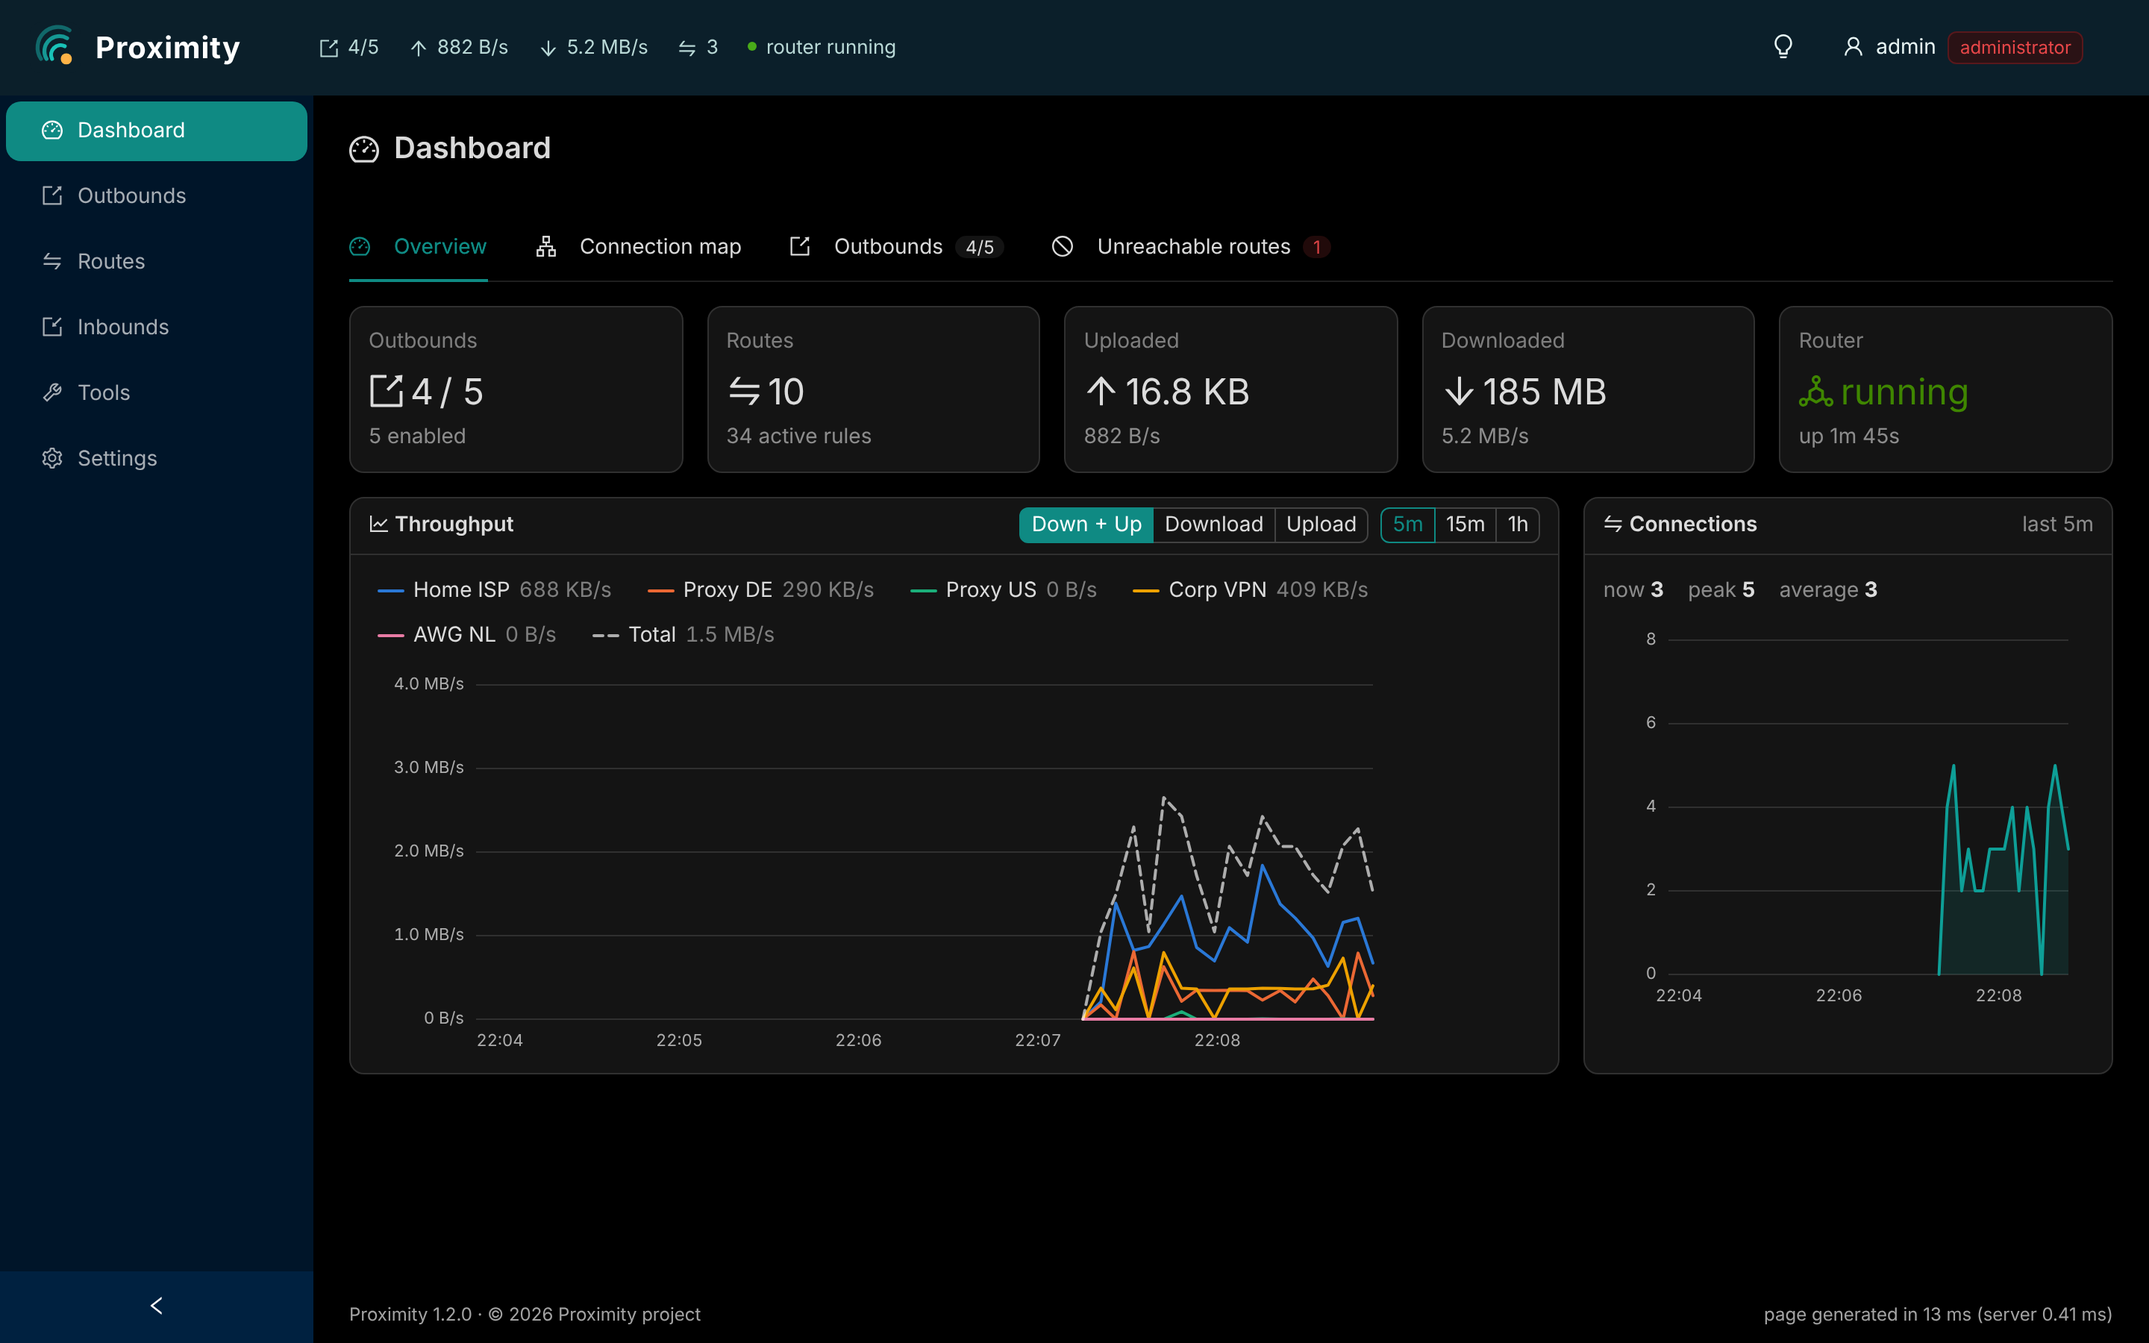
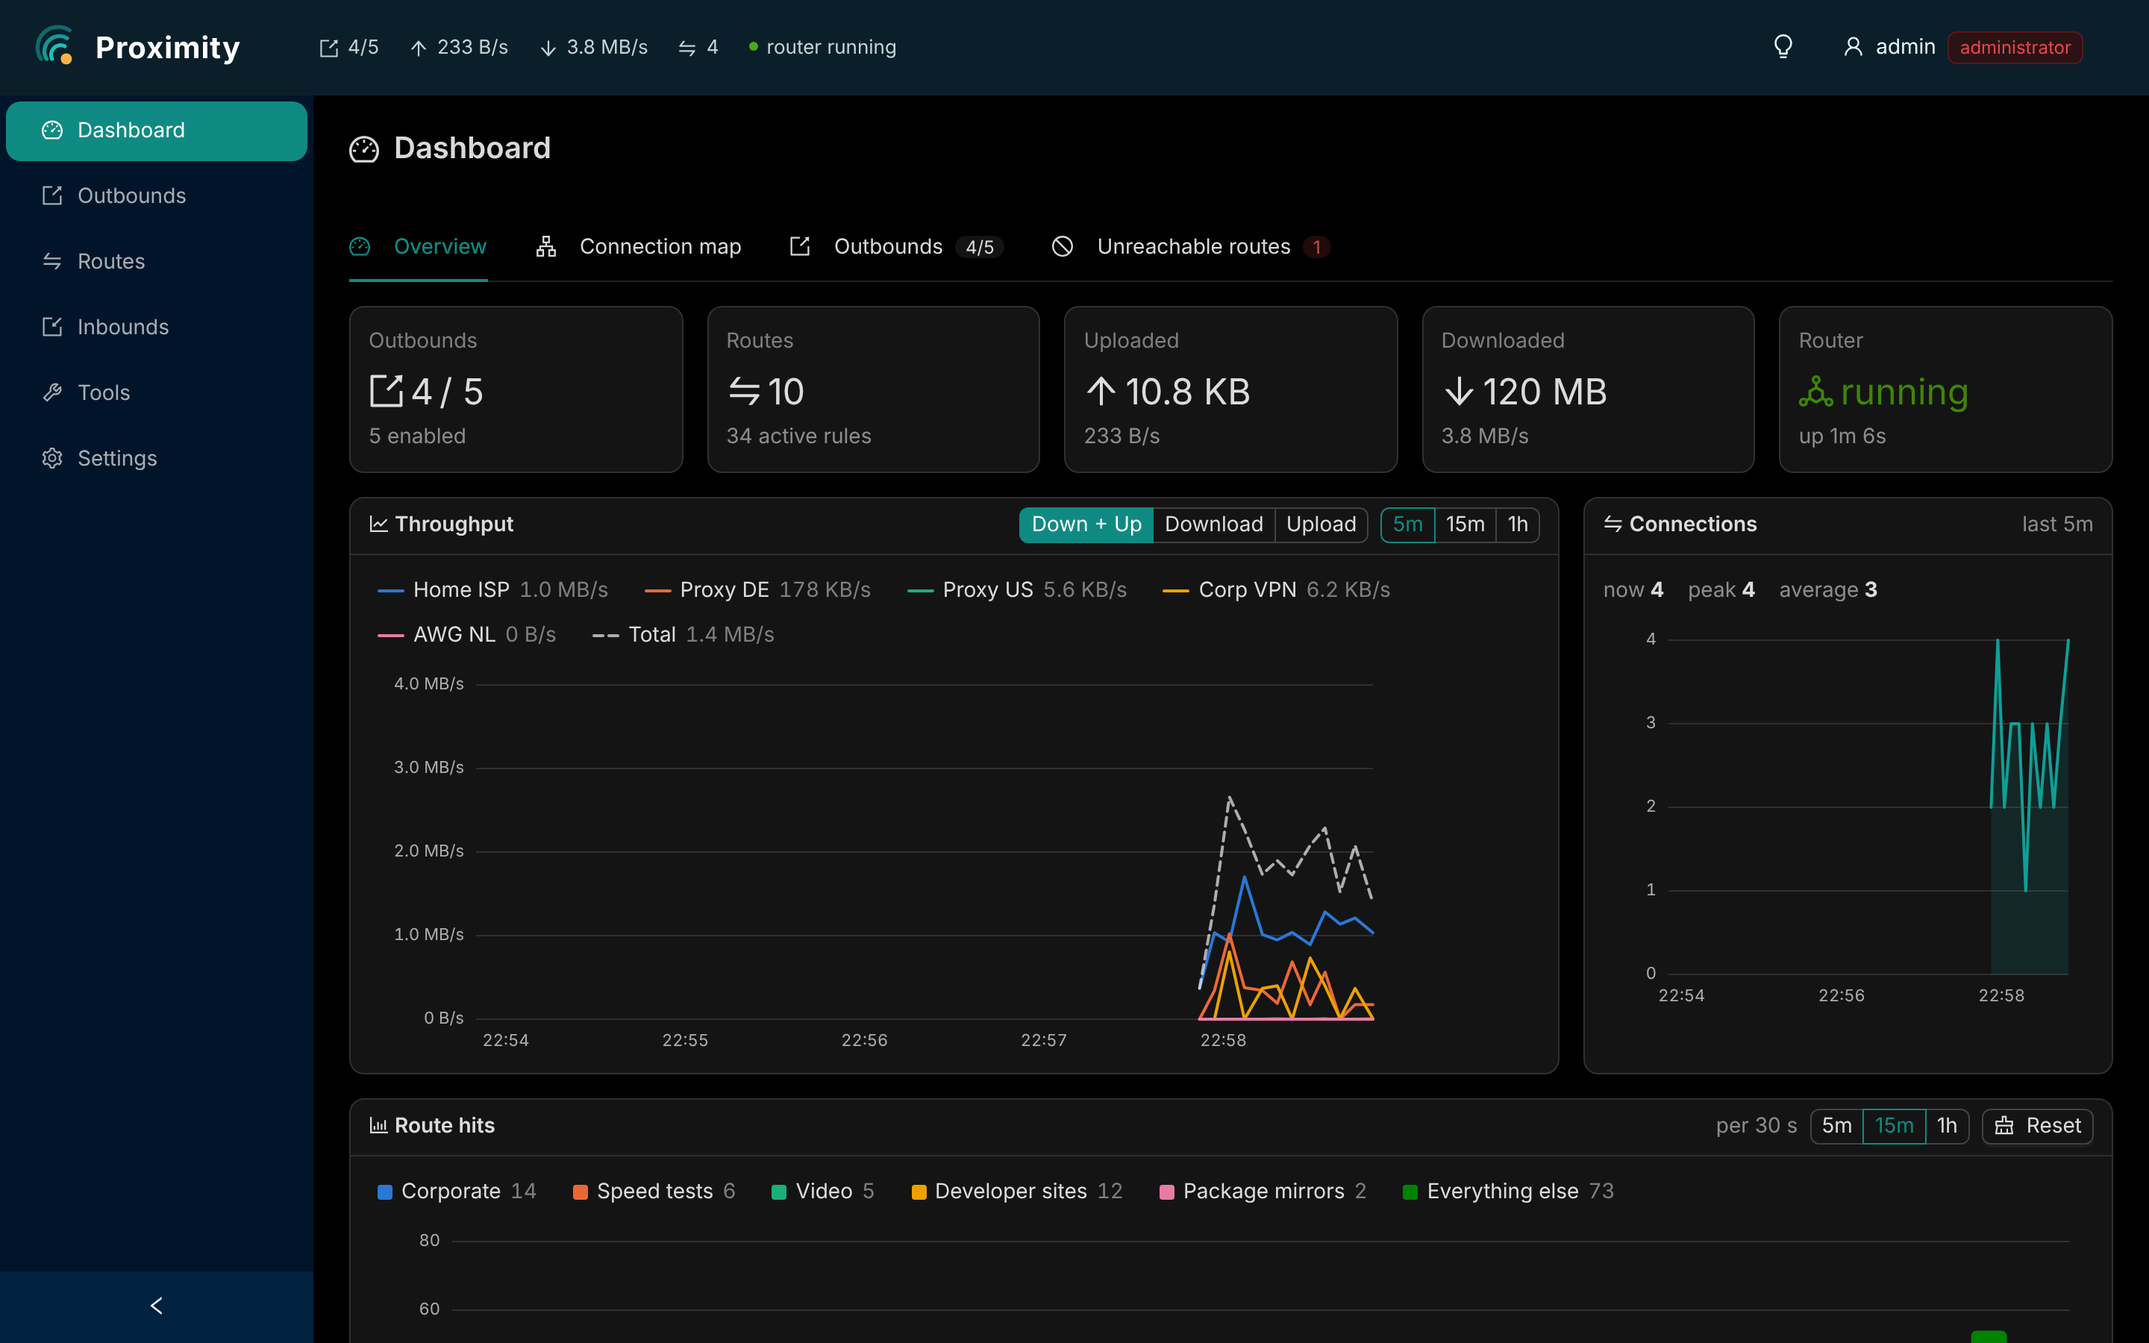
Show route hits on the dashboard overview
The Route hits chart of the Routes page also stands below the
throughput and connections charts for signed-in users, with route
names loaded from /api/routes. After Reset the chart hides the
samples the page loaded before. Stand hits checks the dashboard
(14 checks); dashboard pictures retaken.

diff --git a/web/src/views/Dashboard.vue b/web/src/views/Dashboard.vue
@@ -45,6 +45,8 @@
               <TrafficChart v-model:range="range" class="chart-main" :overview="overview" :samples="history.samples.value" :step="history.step.value" />
               <ConnectionsChart class="chart-side" :samples="history.samples.value" :step="history.step.value" :range="range" />
             </div>
+            <HitsChart v-if="session.level > 0" class="dashboard-hits" :samples="history.samples.value" :step="history.step.value"
+              :origins="origins" :can-clear="canEdit()" @clear="clearHits" />
           </div>
         </a-tab-pane>
         <a-tab-pane v-if="session.level > 0" key="map">
@@ -122,7 +124,7 @@
 </template>
 
 <script setup>
-import { computed, ref, watch } from 'vue'
+import { computed, onMounted, ref, watch } from 'vue'
 import { message } from 'ant-design-vue'
 import {
   ApartmentOutlined, ArrowDownOutlined, ArrowUpOutlined, ClearOutlined, DashboardOutlined, DeploymentUnitOutlined, ExportOutlined,
@@ -135,6 +137,7 @@ import StateTag from '../components/StateTag.vue'
 import TrafficChart from '../components/TrafficChart.vue'
 import ConnectionsChart from '../components/ConnectionsChart.vue'
 import ConnectionMap from '../components/ConnectionMap.vue'
+import HitsChart from '../components/HitsChart.vue'
 import { useHistory } from '../components/history'
 
 const props = defineProps({ overview: { type: Object, default: null } })
@@ -146,6 +149,9 @@ const tab = computed({
   set: (value) => { stored.value = value }
 })
 const history = useHistory(() => props.overview)
+const routes = ref([])
+const origins = computed(() => routes.value.map((route, index) => ({ key: route.key, name: route.id || `Route ${index + 1}` }))
+  .concat([{ key: 'default', name: 'Everything else' }]))
 
 const outboundColumns = [
   { title: 'Outbound', key: 'id' },
@@ -169,6 +175,28 @@ const refusedColumns = [
 
 watch(stored, (value) => localStorage.setItem('proximity-dashboard-tab', value))
 
+// NOTE: The chart needs the names of the routes; the overview has only their number.
+async function loadRoutes() {
+  if (session.level < 1) return
+  try {
+    routes.value = (await api.get('/api/routes', true)).routes
+  } catch (error) {
+    routes.value = []
+  }
+}
+
+async function clearHits() {
+  try {
+    await api.remove('/api/routes/hits')
+    emit('refresh')
+  } catch (error) {
+    message.error(error.message)
+  }
+}
+
+onMounted(loadRoutes)
+watch(() => props.overview && props.overview.counts.routes, loadRoutes)
+
 async function clearRefused() {
   try {
     await api.remove('/api/refused')
@@ -184,6 +212,7 @@ async function clearRefused() {
 .tab-count { margin-left: 4px; padding: 0 7px; border-radius: 10px; font-size: 12px; background: rgba(127, 127, 127, .15); }
 .tab-alert { background: color-mix(in srgb, var(--tone-bad) 15%, transparent); color: var(--tone-bad); }
 .charts { display: flex; gap: 16px; align-items: stretch; }
+.dashboard-hits { margin-bottom: 0; }
 .chart-main { flex: 1 1 0; min-width: 0; }
 .chart-side { flex: 0 0 30%; min-width: 0; }
 @media (max-width: 991px) {

diff --git a/web/src/components/HitsChart.vue b/web/src/components/HitsChart.vue
@@ -7,7 +7,7 @@
         <a-radio-group v-model:value="range" size="small">
           <a-radio-button v-for="option in ranges" :key="option.value" :value="option.value">{{ option.label }}</a-radio-button>
         </a-radio-group>
-        <a-popconfirm v-if="canClear" title="Reset all hit counters?" @confirm="$emit('clear')">
+        <a-popconfirm v-if="canClear" title="Reset all hit counters?" @confirm="reset">
           <a-button size="small"><template #icon><ClearOutlined /></template>Reset</a-button>
         </a-popconfirm>
       </div>
@@ -62,7 +62,7 @@ const props = defineProps({
   origins: { type: Array, required: true },
   canClear: { type: Boolean, default: false }
 })
-defineEmits(['clear'])
+const emit = defineEmits(['clear'])
 const { token } = theme.useToken()
 
 const palette = ['#2a78d6', '#eb6834', '#1baf7a', '#eda100', '#e87ba4', '#008300', '#6250d6', '#e34948']
@@ -72,6 +72,7 @@ const height = 220
 const columns = 30
 
 const range = ref(900)
+const cleared = ref(0)
 const hidden = ref(new Set())
 const focused = ref('')
 const hover = ref(null)
@@ -95,7 +96,8 @@ const end = computed(() => {
   return Math.ceil(time / bucket.value) * bucket.value
 })
 const start = computed(() => end.value - range.value)
-const shown = computed(() => props.samples.filter((sample) => sample.time > start.value && sample.time <= end.value))
+const shown = computed(() => props.samples.filter((sample) => sample.time > Math.max(start.value, cleared.value) &&
+  sample.time <= end.value))
 
 const totals = computed(() => {
   const result = {}
@@ -174,6 +176,13 @@ const tooltipStyle = computed(() => {
   return left > width.value / 2 ? { right: `${width.value - left + 16}px`, top: `${margin.top}px` }
     : { left: `${left + 16}px`, top: `${margin.top}px` }
 })
+
+// NOTE: The page keeps the samples it has loaded: after a reset the older ones are hidden here.
+function reset() {
+  const last = props.samples[props.samples.length - 1]
+  cleared.value = last ? last.time : Math.floor(Date.now() / 1000)
+  emit('clear')
+}
 
 function label(key) {
   return key.startsWith('inbound:') ? `Inbound ${key.slice('inbound:'.length)}` : key

diff --git a/docs/development.md b/docs/development.md
@@ -285,7 +285,7 @@ make stand-config                       # stand "broken-config": 17 checks, abou
 make stand-capture                      # stand "capture": 29 checks, about 45 seconds
 make stand-dns                          # stand "dns": 36 checks, about 1.5 minutes
 make stand-logs                         # stand "logs": 21 checks, about 40 seconds
-make stand-hits                         # stand "hits": 13 checks, about 30 seconds
+make stand-hits                         # stand "hits": 14 checks, about 30 seconds
 make stand-tools                        # stand "tools": 23 checks, about 40 seconds
 bash scripts/stands/pair/stand.sh up    # only start the stand; "down" removes it
 ```
@@ -298,7 +298,7 @@ bash scripts/stands/pair/stand.sh up    # only start the stand; "down" removes i
 | `capture` | a "host" (a network namespace with `rp_filter=1` and its default route via `proximity-stand-wan`), Proximity in its network with capture on (`PROXIMITY_NETWORK=host`), an exit instance with SOCKS5 and OpenVPN inbounds, an AmneziaWG server (`proximity-stand-awg`), a local time server and the "Internet" `proximity-stand-wan` that owns `1.1.1.1` (route `IP-CIDR` to SOCKS5), `1.1.1.2` (no route), `1.1.1.3` (route to OpenVPN) and `1.1.1.4` (route from the `AllowedIPs` of AmneziaWG) and counts the packets by source | `make stand-capture` (`check.sh`): TCP of each address leaves where its route says; ping of the SOCKS5 route does not leave and gets no false answer, ping without a route gets real answers, ping of the tunnel route goes through the tunnel; the AmneziaWG outbound connects with its obfuscation, *Receive routes* adds the networks of `AllowedIPs` first and switches the route off when the outbound stops, TCP and ping of that route go through the tunnel; the default target SOCKS5 drops ping, the default tunnel carries it and LAN ping stays on the LAN; *Keep ping of the host on its routes* off removes everything |
 | `dns` | the "host" of `capture` with `nameserver 1.1.1.1`, Proximity in its network with capture on, an exit instance with two SOCKS5 inbounds (with and without UDP) and an OpenVPN inbound, the "Internet" `proximity-stand-wan` with `1.1.1.1` (the resolver of the system), `1.1.1.53` (the DNS server given to the outbounds, also DoT and DoH with a certificate made by `openssl` and trusted through `SSL_CERT_FILE`), `1.1.1.2` and `1.1.1.80` (an HTTP proxy, `proxy.py`), and `proximity-stand-dns`: a DNS server on both addresses (`server.py`) that prints every query with the address and transport | `make stand-dns` (`check.sh`): outbounds whose servers are given by name (`exit.stand.test`, `vpn.stand.test`) connect, the `remote` is replaced by the real address, the server name of a proxy is never asked through the proxy (the pin in `nameserver-policy`), the time servers are resolved by the router, an application gets a placeholder address; the domain of a route is asked from the server of its outbound through the outbound (UDP, TCP for a proxy without UDP, the far side of a tunnel, the exit *Host*), the default servers of Settings and the DNS of the default target; a DNS server of the tunnel given by name is resolved through the tunnel into `hosts` and answers over TLS, DoT through SOCKS5, DoH through the HTTP proxy, keyword and regex routes, the health check of a fallback, a name through the tunnel to a Proximity inbound gets a real address and the inbound hijacks only `198.18.0.2:53`; the answers pass `rp_filter=1`; no warnings |
 | `logs` | one instance with a HOST outbound and a SOCKS5 inbound, and a headless browser (the tools of the screenshots) | `make stand-logs` (`check.sh`): Start and Restart empty the log with the setting on (default), keep it with the setting off; a Start of a running service changes nothing; the restart of the container keeps the logs; the button **Clear** of the log window of an outbound and of an inbound (with its confirmation) empties the window and the log on the server, and the log stays empty after a restart of the container; Settings show the saved value of the checkbox |
-| `hits` | one instance with its proxy port `7899` published, and a headless browser (the tools of the screenshots) | `make stand-hits` (`check.sh`): requests through the HTTP proxy of the router to `one.test` (route *One*), `*.two.test` (route *Two*) and another name; the counts per route and for *Everything else*, the time of the last hit, the history samples, a reload of the router configuration neither loses nor repeats hits, the counts after a restart of the container, the chart and the **Hits** column of the Routes page, the reset |
+| `hits` | one instance with its proxy port `7899` published, and a headless browser (the tools of the screenshots) | `make stand-hits` (`check.sh`): requests through the HTTP proxy of the router to `one.test` (route *One*), `*.two.test` (route *Two*) and another name; the counts per route and for *Everything else*, the time of the last hit, the history samples, a reload of the router configuration neither loses nor repeats hits, the counts after a restart of the container, the chart on the dashboard, the chart and the **Hits** column of the Routes page, the reset |
 | `tools` | a web server `web.tools.test:8080`, an exit instance with an anonymous SOCKS5 inbound, the checked instance with HOST 1 and SOCKS5 1 (to the exit, DNS `tcp://127.0.0.11` through it) and the route `tools.test` → SOCKS5 1, and a headless browser | `make stand-tools` (`check.sh`): the address check (route and rule, chain, router answer, every outbound connects, DNS of SOCKS5 1 through it, closed port closed by the far side, unknown name, URL, address without DNS), the ping (ICMP through DIRECT and HOST 1, TCP through SOCKS5 1, an absent address), a viewer is refused, the page (menu order, the path, the ping map) and the pictures `tools-lookup.png`, `tools-ping.png` |
 | screenshots | two linked instances with sample data and traffic, see [Screenshots](#screenshots) | — |
 

diff --git a/README.md b/README.md
@@ -22,7 +22,7 @@
 <p align="center">
   <img alt="Tests" src="https://img.shields.io/badge/tests-167%20passing-brightgreen">
   <img alt="Coverage" src="https://img.shields.io/badge/coverage-94.2%25-brightgreen"><br>
-  <sub><b>167</b> Go tests, <b>94.2%</b> statement coverage, 189 end-to-end checks on
+  <sub><b>167</b> Go tests, <b>94.2%</b> statement coverage, 190 end-to-end checks on
   <a href="docs/development.md#test-stands">ready stands</a></sub>
 </p>
 
@@ -98,7 +98,7 @@ port **8899**.
 
 | | |
 |---|---|
-| ![Dashboard](docs/images/dashboard.png) **Dashboard** — summary cards, live throughput and connections charts | ![Dark theme](docs/images/connection-map-dark.png) **Dark theme** |
+| ![Dashboard](docs/images/dashboard.png) **Dashboard** — summary cards, live throughput, connections and route hits charts | ![Dark theme](docs/images/connection-map-dark.png) **Dark theme** |
 | ![Outbounds](docs/images/outbounds.png) **Outbounds** — every exit with its state, latency and connection details | ![Routes](docs/images/routes.png) **Routes** — ordered rules with comments, overlap warnings and VPN-provided routes |
 | ![Connection map popup](docs/images/connection-map-popover.png) **Connection map** — details, on/off and start/stop of any item; click to edit | ![Connection log](docs/images/outbound-log.png) **Connection log** — live, auto-scrolling log of a tunnel; copy, download or clear it |
 | ![OpenVPN outbound](docs/images/outbound-openvpn.png) **OpenVPN outbound** — upload or edit `.ovpn`, credentials, TOTP | ![Client configuration](docs/images/inbound-export.png) **Client configuration** — preview, copy or download per user |
@@ -342,7 +342,7 @@ connections untouched, `rp_filter=1`, container stop and kill. Inbounds have bee
 with real mihomo 1.19.34 and OpenVPN 2.6 in network namespaces: SOCKS5 authentication and
 TLS, an OpenVPN client with password + TOTP (appended and `static-challenge`), anonymous
 clients, token renegotiation, session kill on user change, traffic through the router,
-DNS hijack, traffic counters. Nine ready stands run 189 end-to-end checks with the real
+DNS hijack, traffic counters. Nine ready stands run 190 end-to-end checks with the real
 image (`make stand-security`, `stand-tunnel`, `stand-reload`, `stand-config`,
 `stand-capture`, `stand-dns`, `stand-logs`): one-time codes, certificates, tokens, received routes, a damaged
 configuration, the reload of an open page, TCP and ping of a host with transparent capture,

diff --git a/docs/user-guide.md b/docs/user-guide.md
@@ -54,7 +54,7 @@ The dashboard has four tabs; the selected one is remembered in the browser:
 
 | Tab | Contents |
 |---|---|
-| **Overview** | Summary cards, the throughput and connections charts |
+| **Overview** | Summary cards, the throughput and connections charts, the route hits (signed-in users) |
 | **Connection map** | A live diagram of sources, routes, fallbacks and outbounds, see [Connection map](#connection-map) (signed-in users) |
 | **Outbounds** | State, latency and traffic of every outbound; the tab shows *good / total* |
 | **Unreachable routes** | Connections that failed, with the reason and the matched rule (signed-in users); the tab shows their number |
@@ -79,6 +79,10 @@ that collects statistics, plus a dashed **Total** line.
 active connections over the same time window, with the current, peak and average values.
 Hover to see the exact count at a moment in time. On narrow screens it moves below the
 throughput chart.
+
+**Route hits** — below them, for signed-in users: the same chart as on the
+[Routes](#routes) page, matches per interval by route, with its own *5m* / *15m* / *1h*
+and, for Operators and Administrators, **Reset**.
 
 **Outbounds** tab — a table: status (enabled / disabled / unused — not referenced by any route or
 fallback), operation state (`good`, `connecting`, `reconnecting`, `failed`), tunnel link

diff --git a/AGENTS.md b/AGENTS.md
@@ -105,7 +105,7 @@ it, `STAND_OFFLINE=1` adds a time server. Checks print `PASS`/`FAIL`, exit 0 if 
 | capture | `make stand-capture` (45 s, 29) | host namespace, `rp_filter=1`, SOCKS5/OpenVPN/AWG exits, counting "Internet" |
 | dns | `make stand-dns` (1.5 min, 36, openssl) | per-outbound DNS, loop pins, fake-IP, DoT/DoH (own CA via `SSL_CERT_FILE`), HTTP proxy `proxy.py`, keyword/regex, server names → hosts |
 | broken-config | `make stand-config` (5 s, 17) | damaged `config.json` |
-| hits | `make stand-hits` (30 s, 13, browser) | route hit counters from mihomo `/rules`, reload, restart, Routes chart |
+| hits | `make stand-hits` (30 s, 14, browser) | route hit counters from mihomo `/rules`, reload, restart, Dashboard and Routes charts |
 | tools | `make stand-tools` (40 s, 23, browser) | Tools page: lookup, DNS through outbounds, ping; pictures `tools-*.png` |
 
 ## Faster

diff --git a/TODO.md b/TODO.md
@@ -127,6 +127,8 @@ Found by a review of the whole project (code, tests, build, security), not by a 
     origins of the generated rules; totals in `state.json`, matches per 5 s sample in
     `/api/history`; **Hits** column and **Route hits** chart on the Routes page; reset by
     `DELETE /api/routes/hits`. Stand `hits` (13 checks).
+  - Done too: the chart on the Overview tab of the dashboard; after **Reset** the samples
+    already loaded by the page are hidden (stand `hits`: 14 checks).
 
 - [x] **Page Tools: address check and ping**
   - Done: `POST /api/tools/lookup` and `/api/tools/ping`, probe listener of mihomo with one
